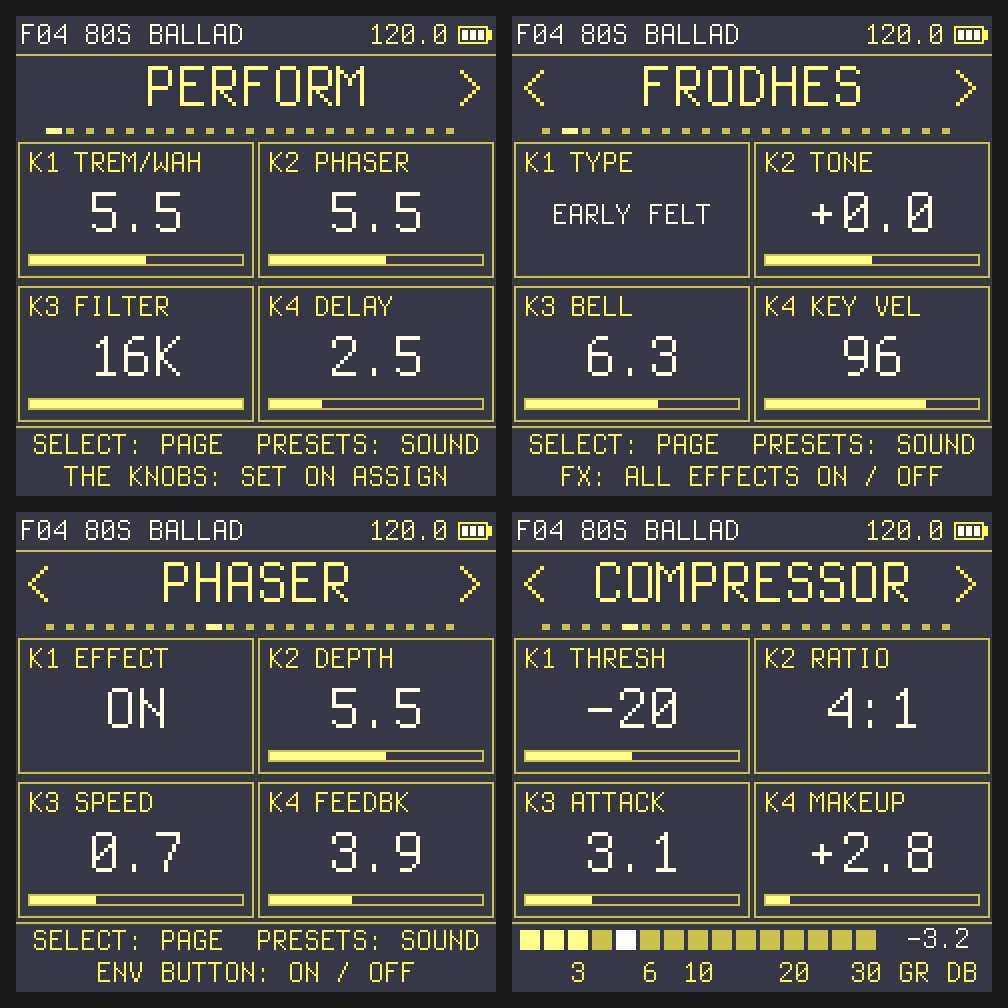
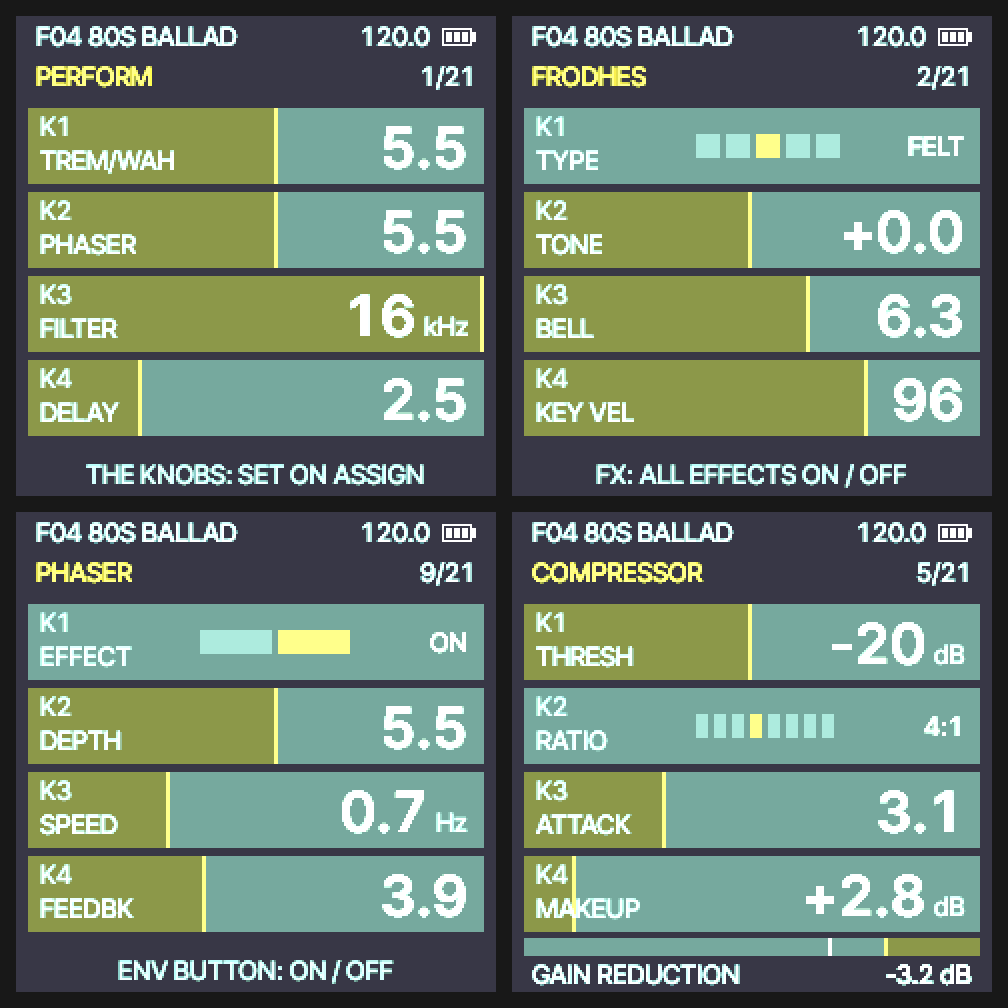
UI-SIMPLIFY merged (lanes A + B + C): the transitional AF_M define removed (ui.c no longer uses it); every screenshot regenerated in the METERS look (voice1 / voice2 / voice3-vibes; decay, motor, voice, *-vibes of the old pages removed)
Tested (host): make test ok; make pytest 491 passed (test_ui_meters 19 included); Gate R 67/67 byte-identical (the
UI does not touch the sound); the build: image ~426 KB (was 468 KB at P0: -42 KB). The colours are not calibrated for
the panel yet (the device look shows the near-black greys lifted to teal): a palette agent prepares 3 candidates.
Not on the FM-1 yet.

Claude-Session: https://claude.ai/code/session_01Dz8MB3aMWQ3NXyFVXtBmgi

diff --git a/firmware/gen/aa_font.h b/firmware/gen/aa_font.h
@@ -1297,5 +1297,3 @@ static const uint8_t AF_L_EX[39] = {35, 37, 42, 43, 45, 46, 47, 48, 49, 50, 51, 
 static const aafont_t AF_L = {35, 28, 32, 32, 39, 143, AF_L_G, AF_L_DATA, AF_L_KERN, AF_L_KD, AF_L_EX, 1, AF_L_HC};
 #define AF_L_CAP_Y 7   /* the ink of H: rows 7 .. 27 of the line */
 #define AF_L_CAP_H 21
-
-#define AF_M AF_S   /* transitional (UI-SIMPLIFY P1): until ui.c stops using AF_M */

diff --git a/tools/gen_aa_font.py b/tools/gen_aa_font.py
@@ -88,7 +88,7 @@ def parse_face(s):
 
 HC_MAXLEN = 15
 # faces gone, kept compilable by a define to a face that remains (removed once nothing uses the old name)
-TRANSITIONAL = [("M", "S")]
+TRANSITIONAL = []   # (AF_M -> AF_S was for the UI rewrite; ui.c no longer uses AF_M)
 
 
 def huff_symbols(v):
